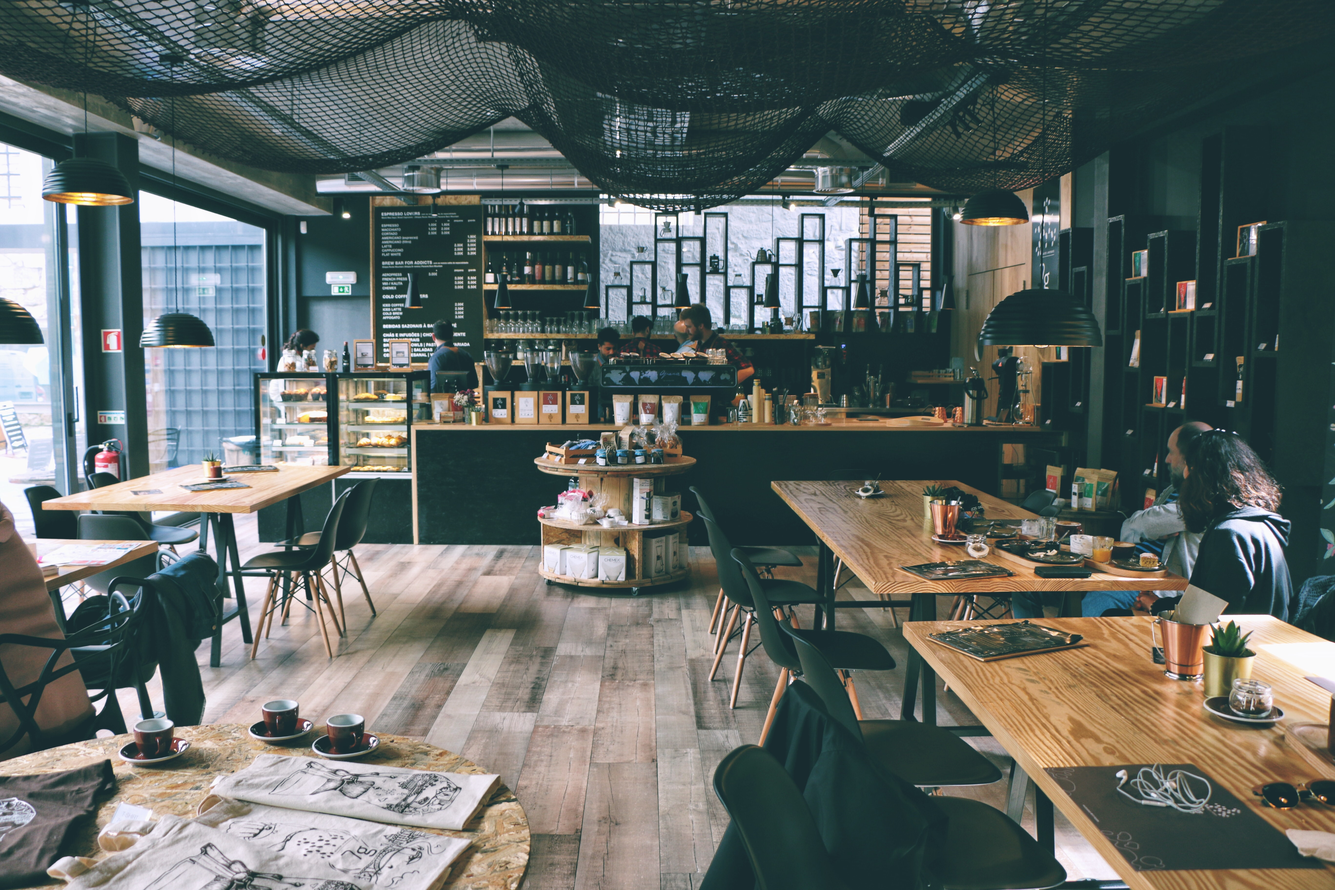
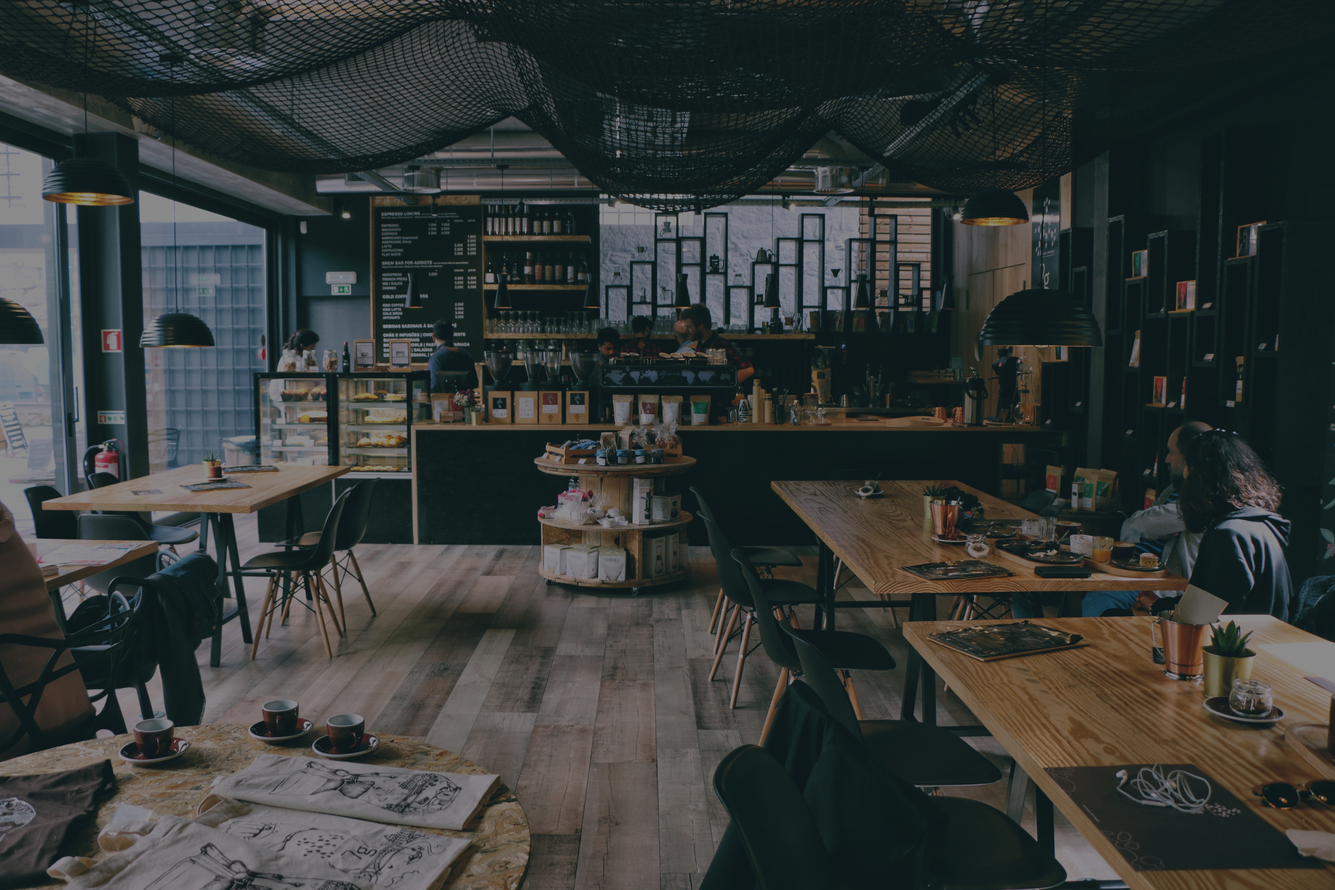
Update: Brightness of hero image lowered

diff --git a/src/index.js b/src/index.js
@@ -1,6 +1,7 @@
 import './style.css';
-import heroImg from './hero-img.jpg';
 
+
+// Loads header header
 const content = document.getElementById('content');
 const container = document.createElement('div');
 const header = document.createElement('header');
@@ -14,6 +15,7 @@ container.classList.add('header-container');
 
 headerTitle.classList.add('header-title');
 headerTitle.textContent = 'Kappu Keiki';
+headerTitle.addEventListener('click', homepage);
 
 headerLinks.classList.add('header-links');
 
@@ -42,6 +44,8 @@ header.appendChild(container);
 content.before(header);
 const links = document.querySelectorAll('.header-link');
 
+
+// Loads homepage
 function homepage() {
   content.innerHTML = '';
 
@@ -50,6 +54,7 @@ function homepage() {
   });
   home.classList.add('selected');
 
+  // Creates hero section
   const hero = document.createElement('div');
   const titleBox = document.createElement('div');
   const title = document.createElement('h1');
@@ -71,6 +76,8 @@ function homepage() {
   content.appendChild(hero);
 }
 
+
+// Loads menu page
 function menuPage() {
   content.innerHTML = '';
 
@@ -81,6 +88,8 @@ function menuPage() {
   menu.classList.add('selected');
 }
 
+
+// Loads contact page
 function contactPage() {
   content.innerHTML = '';
 

diff --git a/src/style.css b/src/style.css
@@ -69,21 +69,23 @@ header {
   background: url('./hero-img.jpg');
   background-size: cover;
   width: 100vw;
-  height: 50rem;
+  height: 40rem;
 
   display: flex;
   align-items: center;
   justify-content: center;
+
   padding: 2rem;
+  margin-bottom: 12rem;
 }
 
 .title-box {
-  color: #fff;
+  color: #eee;
 }
 
 .title {
   text-align: center;
-  color: #fff;
+  color: #eee;
   font-size: 92px;
 }
 
